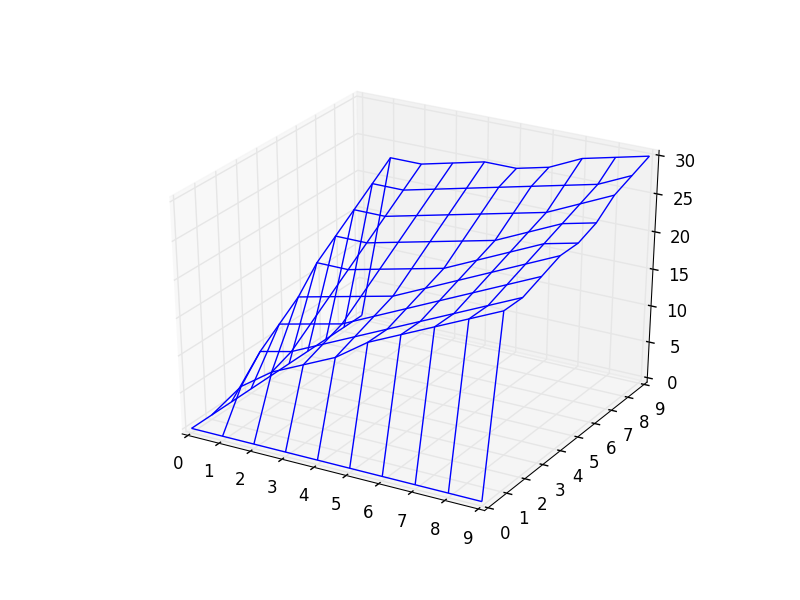
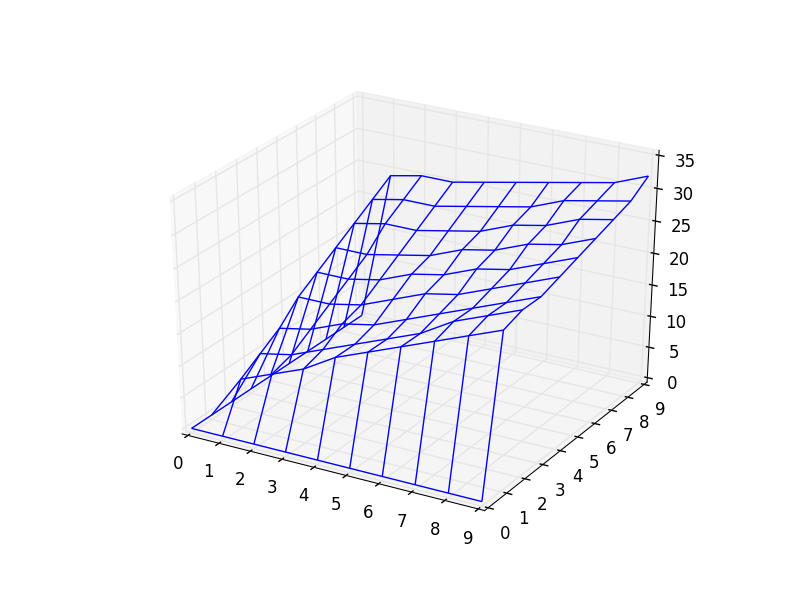
updates

diff --git a/DiagonalMatrixScaling.py b/DiagonalMatrixScaling.py
@@ -7,6 +7,21 @@ import matplotlib.pyplot as plt
 from mpl_toolkits.mplot3d import Axes3D
 
 
+
+
+
+def pointToLineSegement(point, start,end):
+    direction = start - end
+    normalized = direction/(np.norm(direction))
+    phase = start - normalized #starting from this point, moving one unit at a time we pass through the line
+    maxbound = norm(direction) #so from K = 1 to K = maxbound we are on the line segment, phase + K*normalized 
+    # Line = normalized + 
+    
+    possible = np.dot(phase - point,)
+
+
+
+
 def DiagonalNewton(d0,d1,Q,tolerance):
 
     if tolerance <= 0:
@@ -19,8 +34,11 @@ def DiagonalNewton(d0,d1,Q,tolerance):
     except linalg.LinAlgError:
         print "Matrix is either not positive semidefinite, or nonsquare"
         return None
-    
+
+    e = np.ones(d1.size)
     w = linalg.norm(d1 -d0)
+    D = np.diag(d1)
+    w = linalg.norm(np.dot(np.dot(np.dot(D,Q),D),e)-e)
     iterationcounter = 0
     while(w > tolerance):
         d0 = d1
@@ -49,7 +67,7 @@ def DiagonalNewton(d0,d1,Q,tolerance):
 
         else:
             d1 = d0 + y
-        w = linalg.norm(d1 -d0)
+        w = linalg.norm(np.dot(np.dot(np.dot(D,Q),D),e)-e)
 
         iterationcounter += 1
 
@@ -78,7 +96,7 @@ while i < 5:
                 Z.append([])
                 while h < 10:
                 
-                    teal = DiagonalNewton(np.array([0,0]),np.array([h,k]), np.diag(np.array([i,j])),.001)
+                    teal = DiagonalNewton(np.array([0,0]),np.array([h,k]), np.diag(np.array([i,j])),.00000001)
                     if teal != None:
                         Z[k].append(teal[2])
                     else:
@@ -104,48 +122,6 @@ while i < 5:
 
 
 
-
-
-
-
-
-            
-            
-    
-
-def HomogenousProgram(Q,eps,gamma): #matrix Q, item e
-
-    def PhaseI(Q,eps,gamma):
-        #verify that input is good
-
-        if eps <= 0:
-            print "epsilon <= 0, algorithm won't terminate"
-            return None
-
-        #verify if Q is positive semidefinite, correct dimensions
-        try:
-            y = linalg.cholesky(Q)
-        except linalg.LinAlgError:
-            print "Matrix is either not positive semidefinite, or nonsquare"
-            return None
-
-
-        #Step 0:
-        
-        params = Q.shape
-        #need to create unit vector
-        e = ones(params[0])
-        u = e - Q*e
-        d = e
-        t = 1
-
-        rstar = (params[0]**0.5 - gamma)/(params[0]**0.5-gamma**2)
-        CGam = linalg.norm(u)**2*(2*params[0] + gamma*(1 + params[0]**0.5))/gamma**2
-        tstar = eps/CGam
-
-        #Step 1:
-
-        
 
 
 
